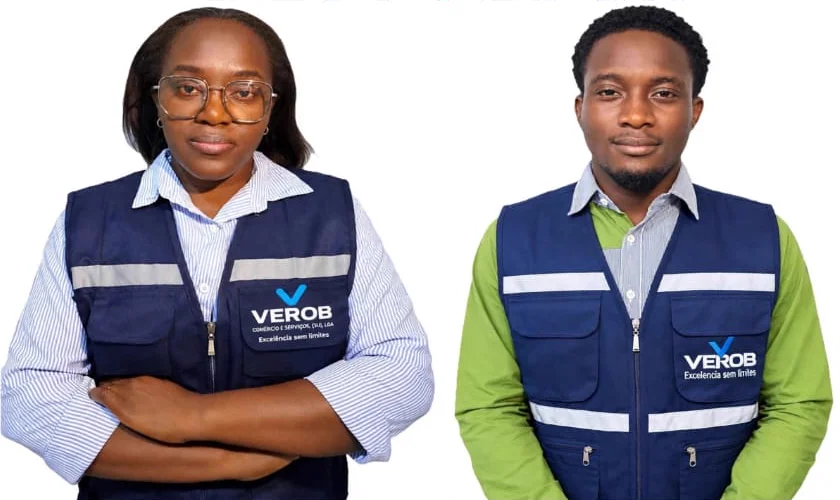
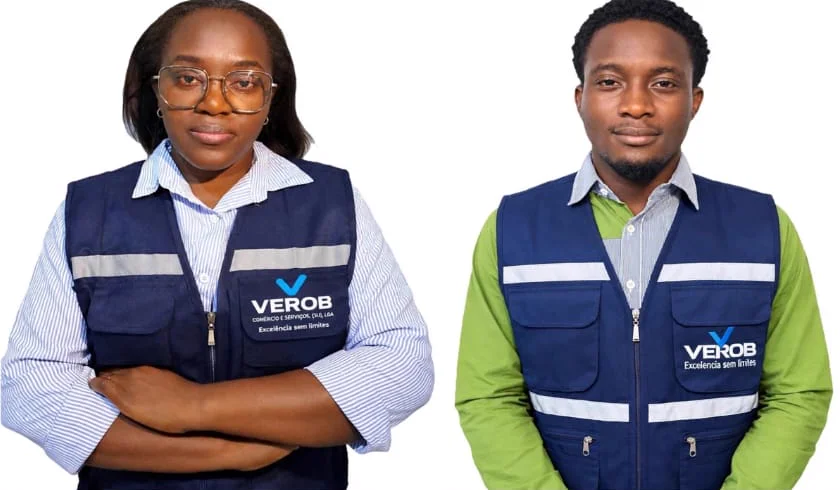
Changes

diff --git a/src/routes/index.tsx b/src/routes/index.tsx
@@ -24,7 +24,7 @@ function Index(){
   <div className="reading-progress" ref={progress} aria-hidden="true"/>
   <header className="site-header"><div className="site-container h-full flex items-center justify-between gap-6"><a href="#inicio" aria-label="VEROB — Início"><img src={logo.url} width={165} height={76} className="logo" alt="VEROB — Comércio e Serviços, (SU), LDA"/></a><div className="hidden md:flex items-center gap-9"><nav aria-label="Navegação principal" className="flex gap-7">{links.map(n=><a key={n.id} className={`nav-link ${active===n.id?'active':''}`} aria-current={active===n.id?'location':undefined} href={`#${n.id}`}>{n.label}</a>)}</nav><Button variant="brand" asChild><a href={whatsappUrl(generalMessage)} target="_blank" rel="noopener noreferrer">Solicitar orçamento<ArrowUpRight/></a></Button></div><Button variant="ghost" size="icon" className="md:hidden" onClick={()=>setMenu(!menu)} aria-label={menu?'Fechar menu':'Abrir menu'} aria-expanded={menu} aria-controls="mobile-nav">{menu?<X/>:<Menu/>}</Button></div>{menu&&<nav id="mobile-nav" aria-label="Navegação móvel" className="md:hidden bg-background border-b border-border px-5 py-5 flex flex-col gap-2">{links.map(n=><a key={n.id} className={`nav-link ${active===n.id?'active':''}`} href={`#${n.id}`} onClick={()=>setMenu(false)}>{n.label}</a>)}<Button variant="brand" asChild><a href={whatsappUrl(generalMessage)} target="_blank" rel="noopener noreferrer">Solicitar orçamento<ArrowUpRight/></a></Button></nav>}</header>
   <main>
-   <section id="inicio" className="hero"><img className="hero-photo" src={heroImg} alt="Dois profissionais com capacete e colete a rever um plano numa obra — imagem ilustrativa" width={1920} height={1024} fetchPriority="high"/><div className="site-container hero-content reveal"><p className="eyebrow">VEROB — Comércio e Serviços</p><h1>Excelência<br/>sem <span>limites.</span></h1><p className="hero-subtitle">Soluções para construir, equipar e apoiar o seu negócio.</p><p className="hero-intro">Da construção civil aos fornecimentos para escritório e indústria, conheça os serviços da VEROB e partilhe connosco o que precisa.</p><div className="flex flex-wrap gap-3 mt-8"><Button variant="brand" size="lg" asChild><a href={whatsappUrl(generalMessage)} target="_blank" rel="noopener noreferrer">Solicitar orçamento<ArrowUpRight/></a></Button><Button variant="light" size="lg" asChild><a href="#servicos">Conhecer os serviços<ArrowRight/></a></Button></div><div className="hero-bottom"><strong>10</strong><span>serviços.<br/>Um parceiro para o seu projeto.</span><span className="ml-6 h-8 border-l border-on-dark-muted/30"/><MapPin size={16}/><span>Luanda, Angola</span></div></div><p className="hero-caption">Imagem ilustrativa</p></section>
+   <section id="inicio" className="hero"><img className="hero-photo" src={heroImg} alt="Dois profissionais com capacete e colete VEROB a rever um plano numa obra — imagem ilustrativa" width={1925} height={817} fetchPriority="high"/><div className="site-container hero-content reveal"><p className="eyebrow">VEROB — Comércio e Serviços</p><h1>Excelência<br/>sem <span>limites.</span></h1><p className="hero-subtitle">Soluções para construir, equipar e apoiar o seu negócio.</p><p className="hero-intro">Da construção civil aos fornecimentos para escritório e indústria, conheça os serviços da VEROB e partilhe connosco o que precisa.</p><div className="flex flex-wrap gap-3 mt-8"><Button variant="brand" size="lg" asChild><a href={whatsappUrl(generalMessage)} target="_blank" rel="noopener noreferrer">Solicitar orçamento<ArrowUpRight/></a></Button><Button variant="light" size="lg" asChild><a href="#servicos">Conhecer os serviços<ArrowRight/></a></Button></div><div className="hero-bottom"><strong>10</strong><span>serviços.<br/>Um parceiro para o seu projeto.</span><span className="ml-6 h-8 border-l border-on-dark-muted/30"/><MapPin size={16}/><span>Luanda, Angola</span></div></div><p className="hero-caption">Imagem ilustrativa</p></section>
    <div className="service-strip"><div className="site-container grid grid-cols-2 md:grid-cols-4">{categories.map(c=>{const S=services.find(s=>s.category===c)!;return <a href="#servicos" key={c} className="strip-item" onClick={()=>setFilter(c)}><S.icon/><span>{c}</span><ArrowUpRight className="ml-auto !w-3 opacity-50"/></a>;})}</div></div>
    <section id="sobre" className="section-space"><div className="site-container grid md:grid-cols-2 items-center gap-12 lg:gap-20"><div className="about-visual"><img src={aboutImg} alt="Dois profissionais a coordenar fornecimentos num escritório — imagem ilustrativa" loading="lazy" width={1280} height={864}/><span className="absolute top-4 left-4 text-xs bg-background/90 px-3 py-1">Imagem ilustrativa</span><div className="about-label"><span className="text-cyan text-xs">A NOSSA ESSÊNCIA</span><p className="mt-2">Excelência sem limites.</p></div></div><div><p className="eyebrow">Sobre a VEROB</p><h2 className="section-title mb-6">Mais do que um fornecedor,<br/>somos o seu parceiro!</h2><p className="text-muted-foreground mb-4">A VEROB — Comércio e Serviços, (SU), LDA atua na prestação de serviços e no comércio de materiais e equipamentos, reunindo soluções de construção civil, fornecimentos, proteção, comércio e apoio empresarial.</p><p className="text-muted-foreground">Com localização em Luanda, Angola, a VEROB apresenta a qualidade, a confiança, o compromisso e os resultados como valores da sua identidade institucional.</p><div className="mt-7 pt-6 border-t border-border flex gap-3 items-center text-sm font-semibold"><ShieldCheck className="text-primary"/>Solidez no compromisso. Clareza em cada solução.</div><Button variant="link" asChild className="px-0 mt-5"><a href="#servicos">Conheça os nossos serviços<ArrowRight/></a></Button></div></div></section>
    <section id="servicos" className="section-space bg-secondary"><div className="site-container"><div className="flex flex-col md:flex-row justify-between md:items-end gap-5 mb-8"><div><p className="eyebrow">O que fazemos</p><h2 className="section-title">10 serviços.<br/>Um parceiro para diferentes necessidades.</h2></div><p className="text-muted-foreground max-w-xs text-sm">Explore as soluções da VEROB e selecione os serviços que fazem parte do seu próximo projeto.</p></div>

diff --git a/src/lib/verob.ts b/src/lib/verob.ts
@@ -45,7 +45,7 @@ export const services: Service[] = [
   { id: 'comercio', name: 'Comércio geral, importação e exportação', category: 'Indústria e negócios', icon: Globe, short: 'Grosso, retalho, importação e exportação.', description: 'Comércio a grosso e a retalho, importação e exportação de bens, conforme as necessidades comerciais apresentadas.', action: 'Apresentar pedido comercial' },
   { id: 'consultoria', name: 'Consultoria, apoio administrativo e logística', category: 'Indústria e negócios', icon: ClipboardList, short: 'Apoio à organização e operação.', description: 'Consultoria empresarial, apoio administrativo e gestão de logística para diferentes necessidades de organização e operação.', details: ['Consultoria empresarial', 'Apoio administrativo', 'Gestão de logística'], action: 'Solicitar apoio empresarial' },
 ];
-const imgs: Record<string,[string,string]> = {'construcao':[img_construcao,'Equipa com proteção a trabalhar numa obra organizada — imagem ilustrativa'],'escritorio':[img_escritorio,'Profissional a organizar materiais de escritório numa estante — imagem ilustrativa'],'individuais':[img_individuais,'Profissionais a verificar capacetes, luvas, óculos e botas de proteção — imagem ilustrativa'],'equipamentos':[img_equipamentos,'Técnico com óculos de proteção a inspecionar equipamento — imagem ilustrativa'],'materiais-construcao':[img_materiais,'Profissionais a conferir cimento, tijolos e varões num armazém — imagem ilustrativa'],'consumiveis':[img_consumiveis,'Profissional a verificar um tinteiro junto a uma impressora — imagem ilustrativa'],'mobiliario':[img_mobiliario,'Profissionais a organizar secretárias e cadeiras num escritório moderno — imagem ilustrativa'],'quimicos':[img_quimicos,'Técnico com proteção a verificar bidões selados num ambiente industrial — imagem ilustrativa'],'comercio':[img_comercio,'Profissionais a conferir mercadorias paletizadas num armazém de logística — imagem ilustrativa'],'consultoria':[img_consultoria,'Reunião de planeamento com documentos e computador — imagem ilustrativa']};
+const imgs: Record<string,[string,string]> = {'construcao':[img_construcao,'Equipa com coletes VEROB a nivelar betão numa obra — imagem ilustrativa'],'escritorio':[img_escritorio,'Profissional a organizar materiais de escritório numa estante — imagem ilustrativa'],'individuais':[img_individuais,'Profissionais com coletes VEROB a verificar capacetes, luvas, óculos e botas de proteção — imagem ilustrativa'],'equipamentos':[img_equipamentos,'Técnico com óculos de proteção a inspecionar equipamento — imagem ilustrativa'],'materiais-construcao':[img_materiais,'Profissionais com coletes VEROB a conferir cimento, tijolos e varões — imagem ilustrativa'],'consumiveis':[img_consumiveis,'Profissional a verificar um tinteiro junto a uma impressora — imagem ilustrativa'],'mobiliario':[img_mobiliario,'Profissionais a organizar secretárias e cadeiras num escritório moderno — imagem ilustrativa'],'quimicos':[img_quimicos,'Técnico com proteção a verificar bidões selados num ambiente industrial — imagem ilustrativa'],'comercio':[img_comercio,'Profissionais a conferir mercadorias paletizadas num armazém de logística — imagem ilustrativa'],'consultoria':[img_consultoria,'Dois profissionais com coletes VEROB — imagem ilustrativa']};
 for (const s of services) { const m = imgs[s.id]; if (m) { s.image = m[0]; s.imageAlt = m[1]; } }
 export const navigation = [{ id: 'inicio', label: 'Início' }, { id: 'sobre', label: 'Sobre' }, { id: 'servicos', label: 'Serviços' }, { id: 'valores', label: 'Valores' }, { id: 'contactos', label: 'Contactos' }];
 export type PortfolioItem = { id: string; category: string; image: string; caption: string };
